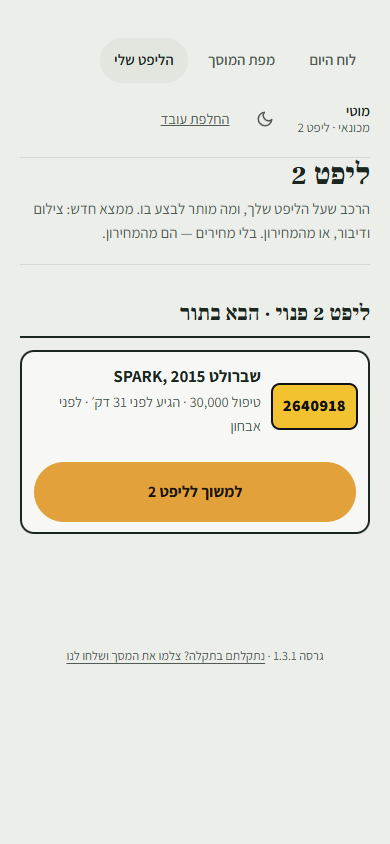
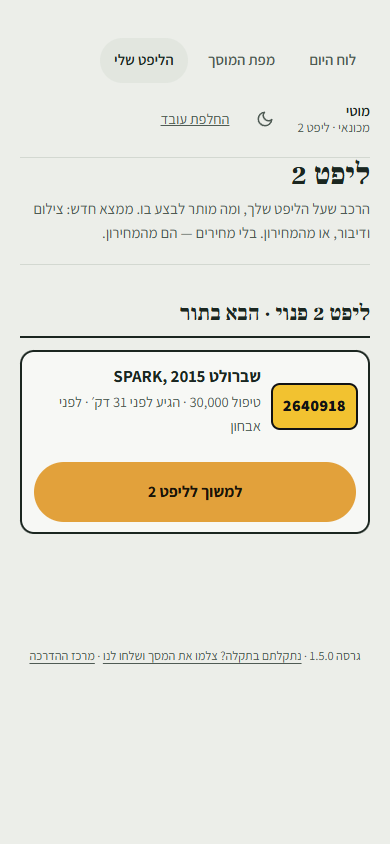
chore: the site moved to the business account; every push to main deploys

Changed region(s): [[0.0615, 0.7701, 0.9231, 0.8009]]

diff --git a/RECOVERY.md b/RECOVERY.md
@@ -10,9 +10,9 @@
 
 | רכיב | איפה | מה יש בו | יש עותק בריפו? |
 |---|---|---|---|
-| **הקוד** | GitHub, `roshinovic2/levi-garage-ai` | האתר, מערכת הצוות, המיגרציות, הבדיקות, הסקריפטים, המדריכים | זה הריפו |
+| **הקוד** | GitHub, `roshilabs-hq/levi-garage-ai` (עד 5.10: `roshinovic2`, והכתובת הישנה מפנה לחדשה) | האתר, מערכת הצוות, המיגרציות, הבדיקות, הסקריפטים, המדריכים | זה הריפו |
 | **המסד** | Supabase, פרויקט `levi-garage`, פרנקפורט | הטבלאות, ההרשאות, הפונקציות, המשימות המתוזמנות, התמונות וההקלטות | **הסכימה כן** (מיגרציות). **הנתונים לא** (ראו סעיף 2) |
-| **האירוח** | Vercel, אזור `fra1`, הדומיין `levi-garage.co.il` | האתר והאפליקציה, ומשימת התזכורות היומית | ההגדרות ב-`levi-garage/vercel.json` |
+| **האירוח** | Vercel, הצוות העסקי `roshilabs-hq`, אזור `fra1`, הדומיין `levi-garage.co.il`. **מחובר למאגר: כל דחיפה ל-main פורסת** | האתר והאפליקציה, ומשימת התזכורות היומית | ההגדרות ב-`levi-garage/vercel.json` |
 | **קליטת התורים** | Make | תרחיש אחד: Cal.com ← מאגר משרד התחבורה ← המסד | כן: `03-rollout/solution-3-agent/make/scenario-booking-intake.blueprint.json` |
 | **קביעת תורים** | Cal.com | סוג אירוע אחד, הטופס, הוובהוק ל-Make | ההגדרות נבנות בסקריפטים (סעיף 3.6) |
 | **וואטסאפ** | Green API, ובוט נפרד על Vercel | הקו, וענף המוסך בתוך הבוט | הבוט בריפו אחר. כאן רק החיבור אליו |
@@ -62,7 +62,7 @@ node --env-file=.env.local scripts/backup.mjs --files    # וגם התמונות
 
 ### 3.2 האתר (Vercel)
 
-1. פרויקט חדש מהתיקייה `levi-garage/`. האזור כבר מוגדר ב-`vercel.json` (`fra1`).
+1. Add New ← Project ← Import של המאגר מ-GitHub. **Root Directory: `levi-garage`**. האזור כבר מוגדר ב-`vercel.json` (`fra1`). תוכנית Pro: הדיווח הקולי צריך עד 90 שניות, ו-Hobby חותכת ב-60.
 2. משתני סביבה ב-Production:
 
 | משתנה | למה |
@@ -77,8 +77,8 @@ node --env-file=.env.local scripts/backup.mjs --files    # וגם התמונות
 | `CAL_SITE_KEY` | מפתח API ייעודי של Cal.com, כדי שהמערכת תסגור תור ביומן כשהרכב כבר התקבל (039) |
 | `NEXT_PUBLIC_WHATSAPP_NUMBER` | כפתור הוואטסאפ באתר |
 
-3. **פריסה:** `bash levi-garage/scripts/deploy-prod.sh` מתיקיית הריפו. הסקריפט מטפל במלכודת אחת: שם מחשב בעברית שובר את ה-CLI של Vercel.
-4. **הדומיין:** מחברים את `levi-garage.co.il` לפרויקט, ומעדכנים את הכתובת במשימה המתוזמנת במסד (047).
+3. **פריסה:** דחיפה ל-main. אין צורך ב-CLI או בהתחברות מהמחשב.
+4. **הדומיין:** Domains ← Add Existing ← `levi-garage.co.il`, **בלי** הפניה ל-www: הבוט, המשימות במסד ו-Cal.com פונים לכתובת הקצרה. אם הדומיין רשום בחשבון Vercel אחר, מוסיפים ב-mynames רשומת TXT בשם `_vercel` עם הערך ש-Vercel נותן. רשומות ה-A לא משתנות. אם הכתובת השתנתה, מעדכנים גם את המשימה המתוזמנת במסד (047).
 
 ### 3.3 הבוט (וואטסאפ)
 

diff --git a/03-rollout/solution-3-agent/HANDOVER.md b/03-rollout/solution-3-agent/HANDOVER.md
@@ -13,7 +13,7 @@
 
 | | מה |
 |---|---|
-| 1 | **GitHub:** להעביר בעלות על `roshinovic2/levi-garage-ai` לחשבון העסקי, ואז מקומית: `git remote set-url origin <הכתובת החדשה>` |
+| 1 | ✅ **5.10:** המאגר עבר ל-`roshilabs-hq/levi-garage-ai`, והאתר לפרויקט ב-Vercel העסקי, מחובר למאגר. כל דחיפה פורסת. |
 | 2 | **Vercel:** ליצור פרויקט חדש בחשבון העסקי **עם קישור לגיט** (בניגוד להיום, שכל פריסה ידנית) |
 | 3 | להגדיר שלושה משתנים ב-production: `GEMINI_SA_JSON`, `NEXT_PUBLIC_SUPABASE_URL`, `NEXT_PUBLIC_SUPABASE_PUBLISHABLE_KEY` |
 | 4 | לעדכן את הכתובת החדשה ב-`03-rollout/website/README.md` וב-`STATUS.md` |
